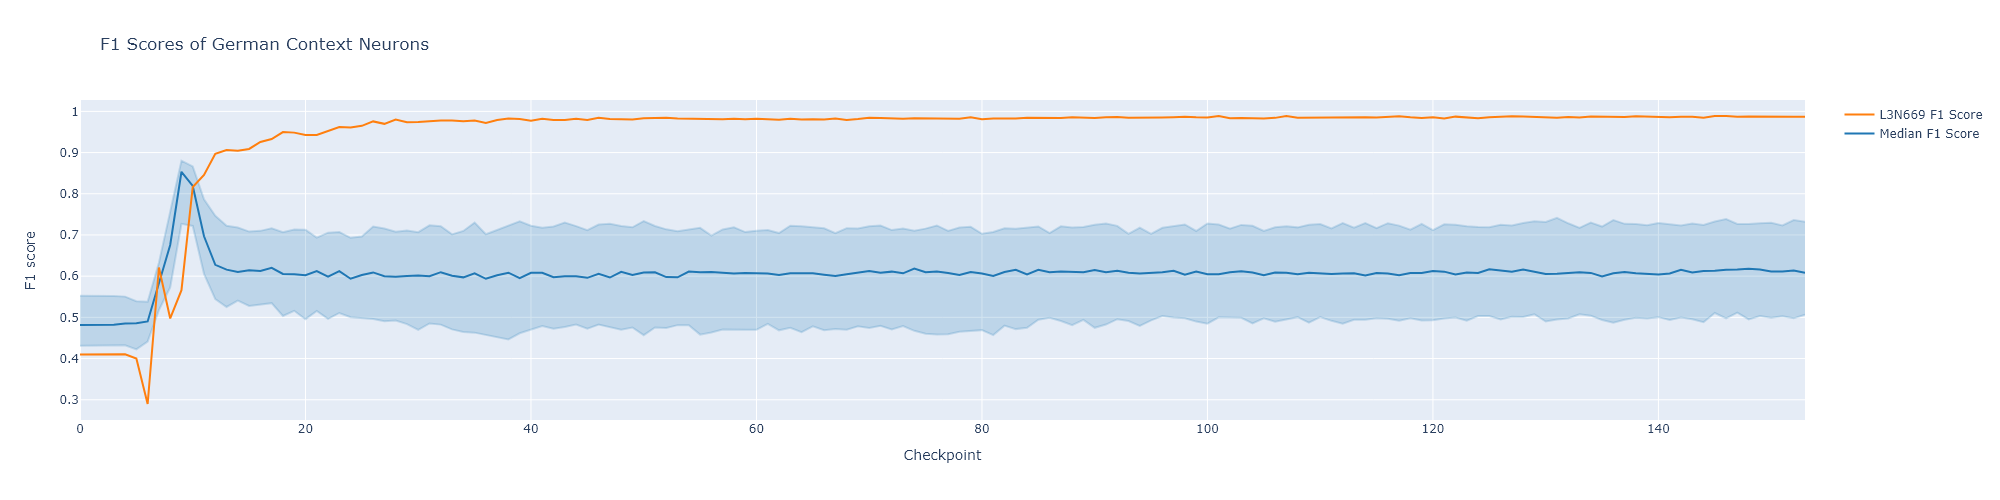
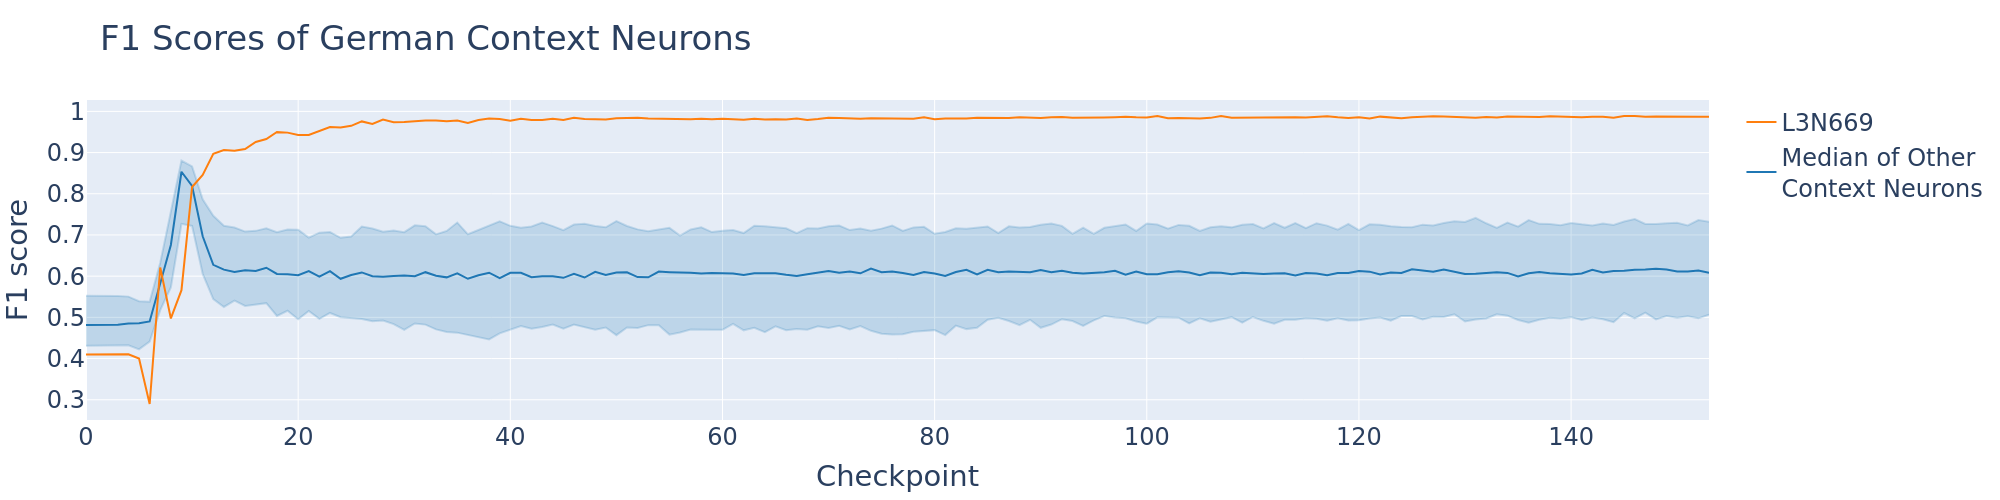
increase font size

diff --git a/feature_formation_viz.py b/feature_formation_viz.py
@@ -86,9 +86,9 @@ def process_data(model_name: str, output_dir: Path, image_dir: Path) -> None:
 
     fig.add_trace(go.Scatter(x=grouped['Checkpoint'], y=grouped['25%'], fill=None, mode='lines', line_color='rgba(31,119,180,0.2)', showlegend=False))
     fig.add_trace(go.Scatter(x=grouped['Checkpoint'], y=grouped['75%'], fill='tonexty', fillcolor='rgba(31,119,180,0.2)', line_color='rgba(31,119,180,0.2)', showlegend=False))
-    fig.add_trace(go.Scatter(x=grouped['Checkpoint'], y=grouped['50%'], mode='lines', line=dict(color='rgb(31,119,180)', width=2), name="Median F1 Score"))
-    fig.add_trace(go.Scatter(x=L3N669_df['Checkpoint'], y=L3N669_df['F1'], mode='lines', line=dict(color='#FF7F0E', width=2), name="L3N669 F1 Score"))
-    fig.update_layout(title="F1 Scores of German Context Neurons", xaxis_title="Checkpoint", yaxis_title="F1 score")
+    fig.add_trace(go.Scatter(x=grouped['Checkpoint'], y=grouped['50%'], mode='lines', line=dict(color='rgb(31,119,180)', width=2), name="Median of Other<br>Context Neurons"))
+    fig.add_trace(go.Scatter(x=L3N669_df['Checkpoint'], y=L3N669_df['F1'], mode='lines', line=dict(color='#FF7F0E', width=2), name="L3N669"))
+    fig.update_layout(title="F1 Scores of German Context Neurons", xaxis_title="Checkpoint", yaxis_title="F1 score", font=dict(size=24))
 
     fig.write_image(image_dir.joinpath("top_f1s_with_quartiles.png"), width=2000)
 
